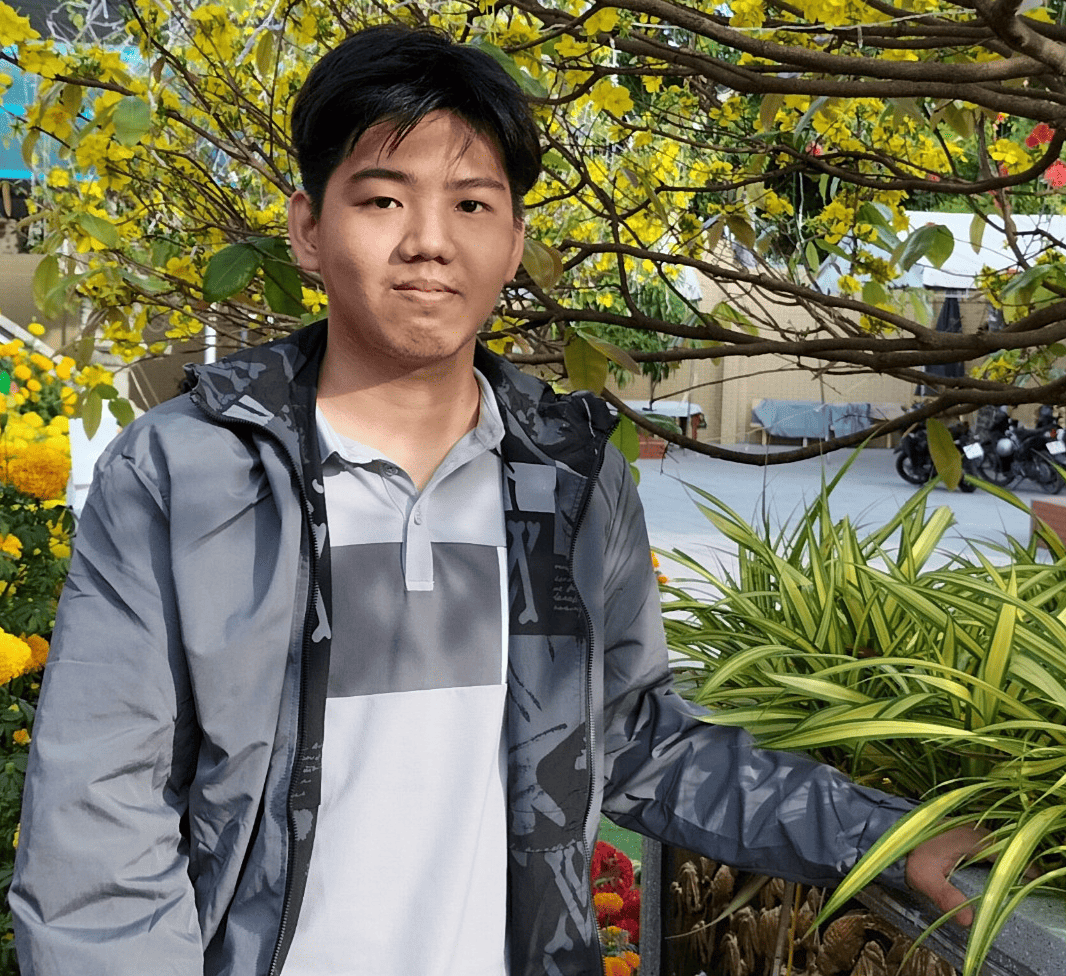
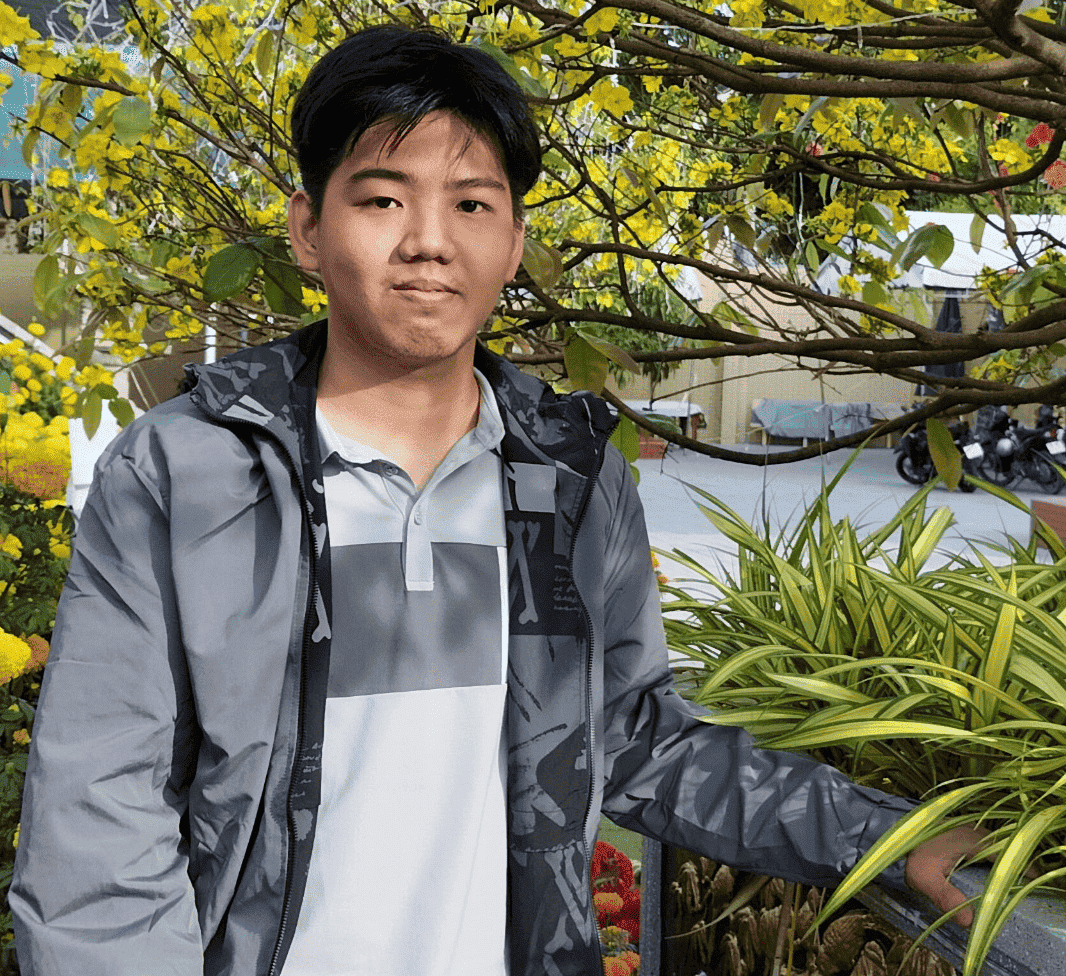
Add Scheduler project, resize thoai.png

diff --git a/app/projects/projects/scheduler.ts b/app/projects/projects/scheduler.ts
@@ -1,0 +1,20 @@
+import { ProjectItem } from "../projectItem";
+
+const projectItem: ProjectItem = {
+  title: "Uni Course Arrangement App",
+  description: "Back when I study in university, it was a real challenge to find a way to fit all the courses I need for the coming semester. So I made this, Scheduler, a Java GUI application that helps students find a good combination of classes to register.",
+  labels: ["tool"],
+  highlights: [
+    "Classes can be created with day and time, categorized by subjects",
+    "A list of possible timetables is shown after clicking \"Arrange\" and any of them can be saved",
+    "A \"Required\" check box will force/unforce a subject to be included when arranging",
+    "An SQL tab to perform SQL queries from SQLite database for debug/troubleshoot purpose"
+  ],
+  timeline: "April - July 2021",
+  effort: "~ 1 Month",
+  technologies: ["Java", "Swing", "SQLite"],
+  imageSrc: "/scheduler.png",
+  imageAlt: "Screenshot of the Scheduler, above shows the main GUI for managing subjects, classes, time tables, and below shows the generated timetables",
+};
+
+export default projectItem;

diff --git a/app/projects/projectData.ts b/app/projects/projectData.ts
@@ -6,6 +6,7 @@ import ollDistribution from "./projects/ollDistribution";
 import studentSystem from "./projects/studentSystem";
 import javascriptCompiler from "./projects/javascriptCompiler";
 import portfolioWebsite from "./projects/portfolioWebsite";
+import scheduler from "./projects/scheduler";
 
 const projects: ProjectItem[] = [
   portfolioWebsite,
@@ -15,6 +16,7 @@ const projects: ProjectItem[] = [
   studentSystem,
   ollDistribution,
   javascriptCompiler,
+  scheduler,
 ];
 
 export default projects;
